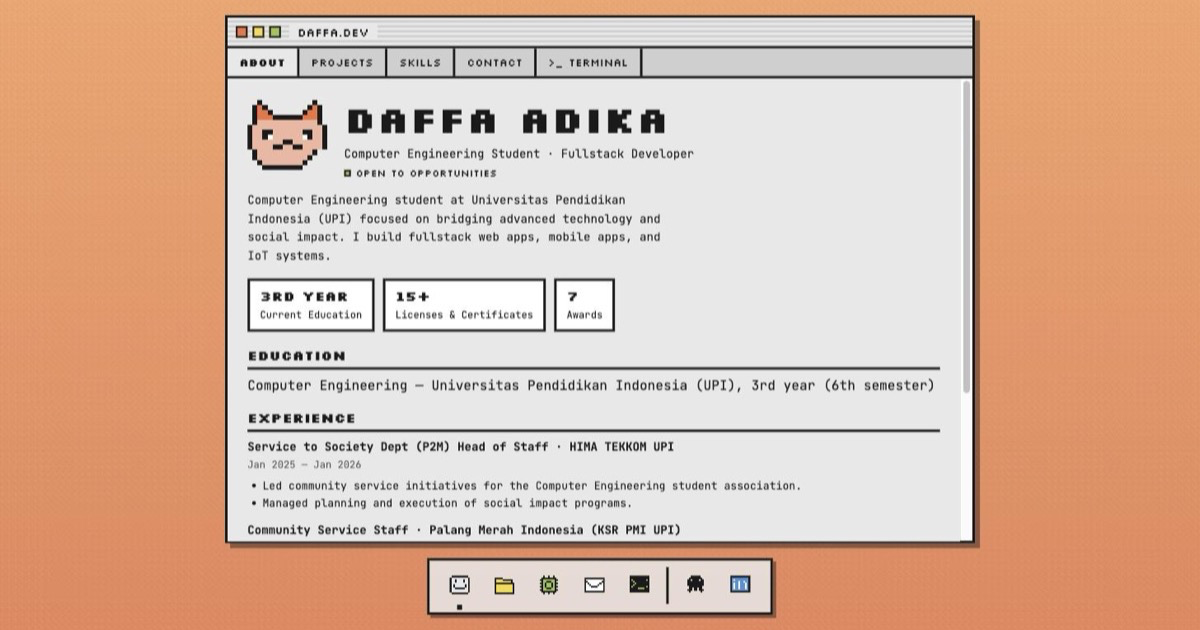
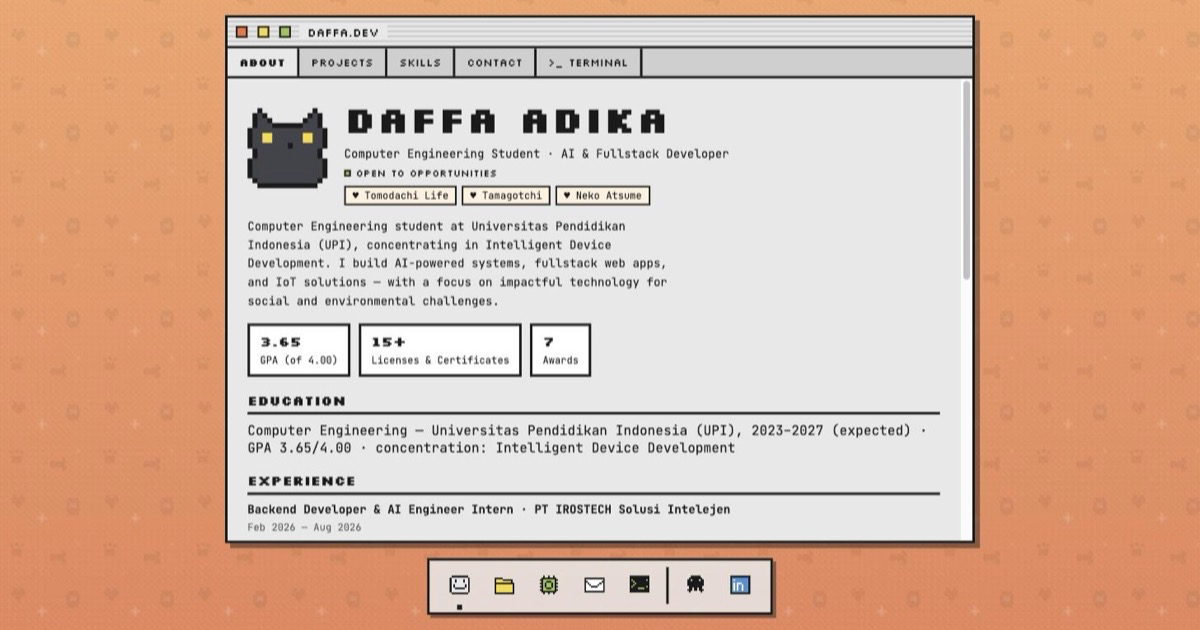
Konten dari CV terbaru + character sheet Skills ala video game Data diperkaya dari CV - Daffadikau.pdf: - Experience baru: intern Backend/AI Engineer PT IROSTECH (platform   monitoring CBRN via drone) + Staff Research & Creativity Rumah   Prestasi UPI; bullet HIMA P2M & KSR PMI di-upgrade (BASKOM, f

Changed region(s): [[0.185, 0.1508, 0.8325, 0.8746], [0.185, 0.0302, 0.3083, 0.0603]]

diff --git a/js/data.js b/js/data.js
@@ -1,13 +1,14 @@
 window.PORTFOLIO_DATA = {
   name: 'DAFFA ADIKA',
   fullName: 'Muhammad Daffa Adika Utama',
-  role: 'Computer Engineering Student · Fullstack Developer',
+  role: 'Computer Engineering Student · AI & Fullstack Developer',
   location: 'Bandung, West Java, Indonesia',
   status: 'Open to opportunities',
+  bio: 'Computer Engineering student at Universitas Pendidikan Indonesia (UPI), concentrating in Intelligent Device Development. I build AI-powered systems, fullstack web apps, and IoT solutions — with a focus on impactful technology for social and environmental challenges.',
   availability: 'Open to internships, freelance, and collaboration.',
   replyNote: 'I usually reply within 24-48 hours.',
   character: {
-    class: 'Fullstack Adventurer',
+    class: 'AI × Fullstack Adventurer',
     level: 6,
     levelLabel: 'semester',
     hearts: 4,
@@ -22,19 +23,31 @@ window.PORTFOLIO_DATA = {
       memento: 'Soft Brush',
     },
   },
-  bio: 'Computer Engineering student at Universitas Pendidikan Indonesia (UPI) focused on bridging advanced technology and social impact. I build fullstack web apps, mobile apps, and IoT systems.',
-  education: { school: 'Universitas Pendidikan Indonesia (UPI)', program: 'Computer Engineering', detail: '3rd year (6th semester)' },
+  education: {
+    school: 'Universitas Pendidikan Indonesia (UPI)',
+    program: 'Computer Engineering',
+    detail: '2023–2027 (expected) · GPA 3.65/4.00 · concentration: Intelligent Device Development',
+  },
   socials: {
     email: 'daffadikau@gmail.com',
     github: 'https://github.com/Daffadikau',
     linkedin: 'https://www.linkedin.com/in/daffadikau/',
   },
   stats: [
-    { number: '3rd Year', label: 'Current Education' },
+    { number: '3.65', label: 'GPA (of 4.00)' },
     { number: '15+', label: 'Licenses & Certificates' },
     { number: '7', label: 'Awards' },
   ],
   projects: [
+    {
+      title: 'CBRN Drone Monitoring',
+      desc: 'Real-time CBRN (Chemical, Biological, Radiological, Nuclear) monitoring platform for UAVs at PT IROSTECH — backend for high-frequency sensor telemetry, low-latency drone-to-command-center streams, AI-driven hazard detection.',
+      tech: [
+        { label: 'Backend', icon: 'node' }, { label: 'AI Analytics', icon: 'py' },
+        { label: 'IoT Telemetry', icon: null },
+      ],
+      links: [],
+    },
     {
       title: 'TestKit Gas Monitor',
       desc: 'Real-time IoT gas monitoring platform: sensor ingestion API, live dashboard with charts and alerting, time-series storage, Dockerized VPS deployment.',
@@ -54,6 +67,24 @@ window.PORTFOLIO_DATA = {
       links: [{ label: 'GitHub', url: 'https://github.com/Daffadikau/bengkelbot' }],
     },
     {
+      title: 'OMR Automated Grading',
+      desc: 'AI answer-sheet grading app (Intelligent Device Systems, graded 4.00/4.00) — pattern recognition + image preprocessing, 99.7% accuracy, cuts manual grading time by 90%.',
+      tech: [
+        { label: 'YOLO', icon: null }, { label: 'Python', icon: 'py' },
+        { label: 'Flutter', icon: 'dart' }, { label: 'Firebase', icon: null },
+      ],
+      links: [{ label: 'GitHub', url: 'https://github.com/Daffadikau' }],
+    },
+    {
+      title: 'Trias Bakti MSME Platform',
+      desc: 'Web platform digitalizing MSMEs in Drawati Village — backend services, database schemas for inventory & transactions, full SRS documentation, and onboarding for local stakeholders.',
+      tech: [
+        { label: 'Backend', icon: 'php' }, { label: 'SQL', icon: 'sql' },
+        { label: 'Systems Design', icon: null },
+      ],
+      links: [],
+    },
+    {
       title: 'Mentorly',
       desc: 'Cross-platform mobile mentoring platform with 2FA, RBAC, AES-256 encryption, real-time chat, payments, and mentor ratings. Published in Jurnal Informatika Teknologi dan Sains.',
       tech: [
@@ -63,17 +94,8 @@ window.PORTFOLIO_DATA = {
       links: [{ label: 'GitHub', url: 'https://github.com/Daffadikau' }],
     },
     {
-      title: 'OMR Automated Grading',
-      desc: 'AI answer-sheet grading with YOLOv11/YOLOv8 — 99.2% accuracy, hybrid cloud-mobile architecture, automated PDF/CSV analytics reports.',
-      tech: [
-        { label: 'YOLO', icon: null }, { label: 'Python', icon: 'py' },
-        { label: 'Flutter', icon: 'dart' }, { label: 'Firebase', icon: null },
-      ],
-      links: [{ label: 'GitHub', url: 'https://github.com/Daffadikau' }],
-    },
-    {
       title: 'Kuai DryVault',
-      desc: 'IoT shoe-drying cabinet: ESP32 driving 14 DC fans via 8-channel relays, Flutter app with Firebase realtime monitoring, 87.4W optimized power draw. Published in Jurnal Ilmiah Pendidikan.',
+      desc: 'IoT shoe-drying cabinet for a local shoe laundry: ESP32 with temperature & humidity sensors automating airflow and heating, Flutter app with Firebase realtime monitoring.',
       tech: [
         { label: 'ESP32', icon: 'c' }, { label: 'IoT', icon: null },
         { label: 'Flutter', icon: 'dart' }, { label: 'Firebase', icon: null },
@@ -83,47 +105,67 @@ window.PORTFOLIO_DATA = {
   ],
   skills: [
     { group: 'Languages', items: [
-      { label: 'JavaScript', icon: 'js', level: 4 }, { label: 'TypeScript', icon: 'ts', level: 3 },
-      { label: 'Python', icon: 'py', level: 4 }, { label: 'Java', icon: 'java', level: 3 },
-      { label: 'Dart', icon: 'dart', level: 4 }, { label: 'PHP', icon: 'php', level: 3 },
+      { label: 'Python', icon: 'py', level: 4 }, { label: 'TypeScript', icon: 'ts', level: 4 },
+      { label: 'JavaScript', icon: 'js', level: 4 }, { label: 'Dart', icon: 'dart', level: 4 },
+      { label: 'PHP', icon: 'php', level: 3 }, { label: 'SQL', icon: 'sql', level: 4 },
     ]},
-    { group: 'Frontend', items: [
-      { label: 'HTML', icon: 'html', level: 5 }, { label: 'CSS', icon: 'css', level: 4 },
-      { label: 'React', icon: 'jsx', level: 3 }, { label: 'Vue', icon: 'vue', level: 3 },
-      { label: 'Next.js', icon: 'next', level: 3 }, { label: 'Flutter', icon: 'dart', level: 4 },
+    { group: 'Web & Mobile', items: [
+      { label: 'HTML/CSS', icon: 'html', level: 5 }, { label: 'React', icon: 'jsx', level: 3 },
+      { label: 'Next.js', icon: 'next', level: 3 }, { label: 'Node.js', icon: 'node', level: 4 },
+      { label: 'FastAPI', icon: 'py', level: 4 }, { label: 'Flutter', icon: 'dart', level: 4 },
     ]},
-    { group: 'Backend', items: [
-      { label: 'Node.js', icon: 'node', level: 4 }, { label: 'FastAPI', icon: 'py', level: 4 },
-      { label: 'REST & GraphQL', icon: 'gql', level: 4 }, { label: 'SQL & NoSQL', icon: 'sql', level: 4 },
-      { label: 'Firebase', icon: null, level: 4 },
+    { group: 'AI & Data', items: [
+      { label: 'Machine Learning', icon: null, level: 4 }, { label: 'Computer Vision (YOLO)', icon: null, level: 4 },
+      { label: 'Data Analysis', icon: null, level: 4 }, { label: 'Gemini API', icon: null, level: 3 },
     ]},
-    { group: 'DevOps & Tools', items: [
+    { group: 'DevOps, Cloud & IoT', items: [
       { label: 'Git', icon: 'git', level: 4 }, { label: 'Docker', icon: 'docker', level: 4 },
-      { label: 'CI/CD', icon: null, level: 3 }, { label: 'Linux/VPS', icon: 'shell', level: 4 },
+      { label: 'AWS', icon: null, level: 3 }, { label: 'Azure', icon: null, level: 3 },
+      { label: 'Linux/VPS', icon: 'shell', level: 4 }, { label: 'Microcontroller/IoT', icon: 'c', level: 4 },
     ]},
   ],
   experience: [
     {
-      role: 'Service to Society Dept (P2M) Head of Staff', org: 'HIMA TEKKOM UPI',
-      period: 'Jan 2025 — Jan 2026',
+      role: 'Backend Developer & AI Engineer Intern', org: 'PT IROSTECH Solusi Intelejen',
+      period: 'Feb 2026 — Aug 2026',
       points: [
-        'Led community service initiatives for the Computer Engineering student association.',
-        'Managed planning and execution of social impact programs.',
+        'Building a real-time CBRN monitoring platform for UAV/drone surveillance.',
+        'Engineering backend architecture for high-frequency sensor telemetry with low-latency drone-to-command-center communication.',
+        'Implementing AI-driven analytics for automated hazardous-material detection.',
       ],
     },
     {
-      role: 'Community Service Staff', org: 'Palang Merah Indonesia (KSR PMI UPI)',
+      role: 'Staff of Research and Creativity', org: 'Rumah Prestasi Kemahasiswaan UPI',
+      period: 'Jan 2026 — now',
+      points: [
+        'Curating and mentoring student digital-innovation projects for the national LIDM competition.',
+        'Reviewing research methodologies and system architectures against national competition standards.',
+      ],
+    },
+    {
+      role: 'Service to Society Dept (P2M) Head of Staff', org: 'HIMA TEKKOM UPI',
+      period: 'Jan 2025 — Jan 2026',
+      points: [
+        'Orchestrated BASKOM, a flagship social program — mobilized and distributed IDR 5,000,000+ in humanitarian aid.',
+        'Managed end-to-end fundraising for disaster relief (Bekasi floods, Sumatra) and orphanage support with transparent reporting.',
+      ],
+    },
+    {
+      role: 'Staff of Bakti Sosial', org: 'KSR PMI UPI (Indonesian Red Cross)',
       period: 'Sep 2024 — Jan 2026',
       points: [
-        'Volunteered with the university humanitarian corps.',
-        'Provided emergency medical support and community services.',
+        'First responder & field medic in emergency missions and disaster relief operations.',
+        'Spearheaded a blood donation program with PMI Kabupaten Bandung — large-scale donor recruitment and logistics.',
       ],
     },
   ],
   awards: [
-    { title: 'Best Department of the Year 2025', org: 'HIMA TEKKOM UPI', when: 'Jan 2026' },
-    { title: '2nd Place (Silver Medal), National Digital Learning Video Competition (LIDM 2025)', org: 'Ministry of Education', when: 'Dec 2025' },
-    { title: '2nd Place, Mobile App UI/UX Design Challenge', org: 'HIMA TEKKOM UPI', when: 'Dec 2025' },
-    { title: 'Staff of the Month', org: 'KSR PMI UPI', when: 'Jul 2025' },
+    { title: 'Best Department of the Year (P2M)', org: 'HIMA TEKKOM UPI', when: '2026' },
+    { title: '2nd Place (Silver Medal), National Digital Learning Video Competition (LIDM)', org: 'Ministry of Education', when: '2025' },
+    { title: 'Best Biro of the Year (Pengabdian)', org: 'KSR PMI Unit UPI Kampus Cibiru', when: '2026' },
+    { title: '2nd Place Winner, Best UI/UX Front-End Design', org: 'HIMA UPI', when: '2025' },
+    { title: 'Staff of the Month (July)', org: 'KSR PMI Unit UPI Kampus Cibiru', when: '2025' },
+    { title: 'Biro of the Month (September)', org: 'KSR PMI Unit UPI Kampus Cibiru', when: '2025' },
+    { title: 'Best Robotics and IT Student Program', org: 'SMAI PB Soedirman Bekasi', when: '2022' },
   ],
 };

diff --git a/js/app.js b/js/app.js
@@ -123,6 +123,9 @@
     const status = el('p', 'status');
     status.append(el('span', 'dot'), document.createTextNode(D.status));
     head.appendChild(status);
+    const likes = el('div', 'tags likes');
+    D.character.interests.forEach((it) => likes.appendChild(el('span', 'tag badge', `♥ ${it}`)));
+    head.appendChild(likes);
     hero.append(art, head);
     const stats = el('div', 'stats');
     D.stats.forEach((s) => {
@@ -142,7 +145,7 @@
       d.appendChild(ul);
       p.appendChild(d);
     });
-    p.appendChild(el('h2', null, 'Honors & Awards (selected)'));
+    p.appendChild(el('h2', null, 'Honors & Awards'));
     const ul = el('ul', 'awards');
     D.awards.forEach((a) => {
       const li = el('li');
@@ -175,8 +178,28 @@
   })();
   (function renderSkills() {
     const p = document.getElementById('panel-skills');
+    const C = D.character;
+    const card = el('div', 'char-card');
+    const portrait = el('div', 'char-portrait');
+    portrait.appendChild(window.PixelArt.render('cat', 5));
+    portrait.appendChild(el('span', 'char-partner', `${C.partner.name} · Lv.${C.partner.powerLevel}`));
+    const info = el('div', 'char-info');
+    const nameRow = el('div', 'char-name');
+    nameRow.append(
+      el('span', 'display char-display', D.name),
+      el('span', 'char-lv', `LV ${C.level} (${C.levelLabel})`),
+    );
+    const hearts = el('div', 'char-hearts');
+    hearts.setAttribute('role', 'img');
+    hearts.setAttribute('aria-label', `motivation: ${C.hearts} of 5 hearts`);
+    for (let i = 1; i <= 5; i += 1) hearts.appendChild(el('span', i <= C.hearts ? 'hh on' : 'hh', i <= C.hearts ? '♥' : '♡'));
+    const likes = el('div', 'tags');
+    C.interests.forEach((it) => likes.appendChild(el('span', 'tag badge', `★ ${it}`)));
+    info.append(nameRow, el('p', 'char-class', `CLASS: ${C.class}`), hearts, likes);
+    card.append(portrait, info);
+    p.append(el('h2', null, 'Character'), card, el('h2', null, 'Status'));
     D.skills.forEach((g) => {
-      p.appendChild(el('h2', null, g.group));
+      p.appendChild(el('h3', 'stat-group', g.group));
       const wrap = el('div', 'skillgrid');
       g.items.forEach((s) => {
         const row = el('div', 'skill');

diff --git a/styles/sections.css b/styles/sections.css
@@ -27,6 +27,20 @@
 .pxbtn { display: inline-block; font-family: var(--font-pixel); font-size: 12px; color: var(--ink); text-decoration: none; border: 3px solid var(--ink); background: var(--tl-yellow); padding: 4px 10px; box-shadow: 3px 3px 0 var(--ink); margin-right: 8px; }
 .pxbtn:active { transform: translate(3px, 3px); box-shadow: none; }
 .pxbtn.big { font-size: 14px; padding: 10px 16px; margin-bottom: 8px; }
+.char-card { display: flex; gap: 18px; align-items: stretch; flex-wrap: wrap; border: 3px solid var(--ink); background: #fff; padding: 14px; box-shadow: 4px 4px 0 rgba(26,26,26,.3); }
+.char-portrait { display: grid; place-items: center; gap: 6px; border: 3px solid var(--ink); background: var(--win); padding: 10px 16px; }
+.char-portrait svg { image-rendering: pixelated; animation: catbob 1.2s steps(2) infinite; }
+.char-partner { font-family: var(--font-pixel); font-size: 11px; }
+.char-info { flex: 1; min-width: 220px; display: flex; flex-direction: column; gap: 8px; }
+.char-name { display: flex; align-items: center; gap: 12px; flex-wrap: wrap; }
+.char-display { font-size: 24px; }
+.char-lv { font-family: var(--font-pixel); font-size: 11px; border: 2px solid var(--ink); background: var(--tl-yellow); padding: 2px 8px; }
+.char-class { font-family: var(--font-pixel); font-size: 12px; }
+.char-hearts { font-size: 20px; letter-spacing: 5px; color: #c94867; }
+.char-hearts .hh:not(.on) { color: var(--ink); opacity: .35; }
+.tag.badge { background: #fff0e0; }
+.likes { margin-top: 8px; }
+.stat-group { font-family: var(--font-pixel); font-size: 13px; margin: 14px 0 6px; }
 .skillgrid { display: grid; grid-template-columns: repeat(auto-fill, minmax(240px, 1fr)); gap: 8px 20px; }
 .skill { display: flex; align-items: center; justify-content: space-between; gap: 10px; }
 .bar { display: flex; gap: 3px; }
